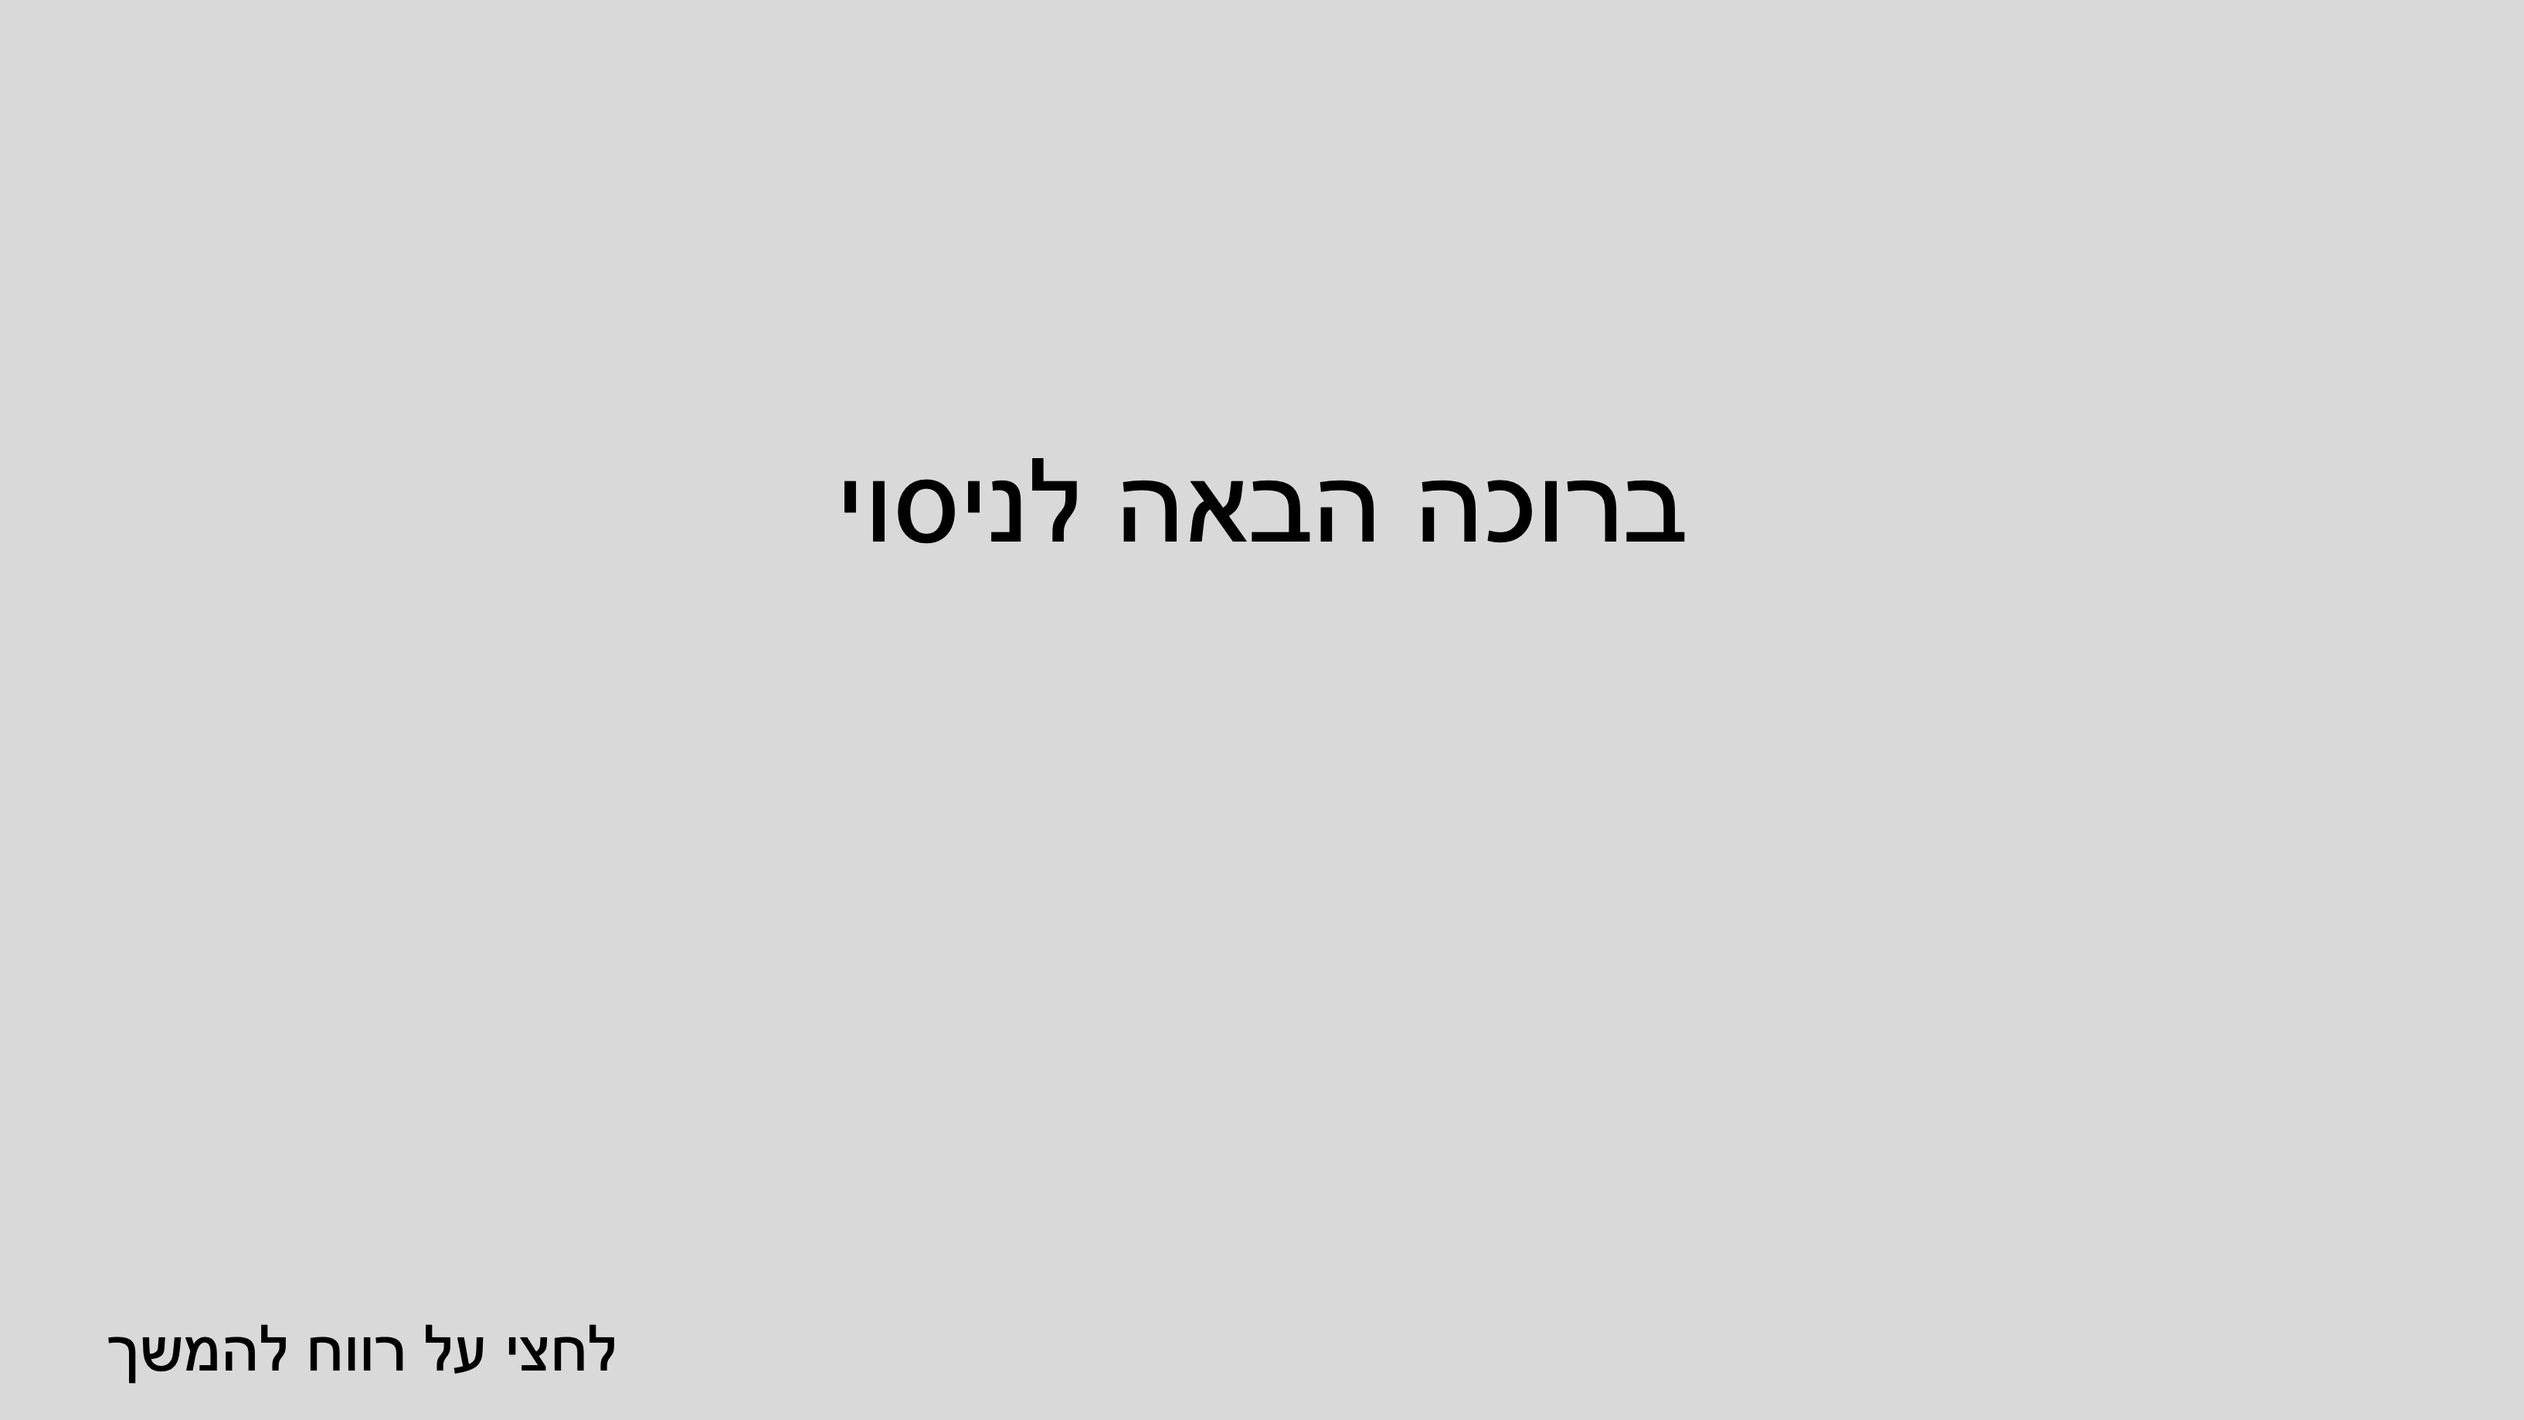
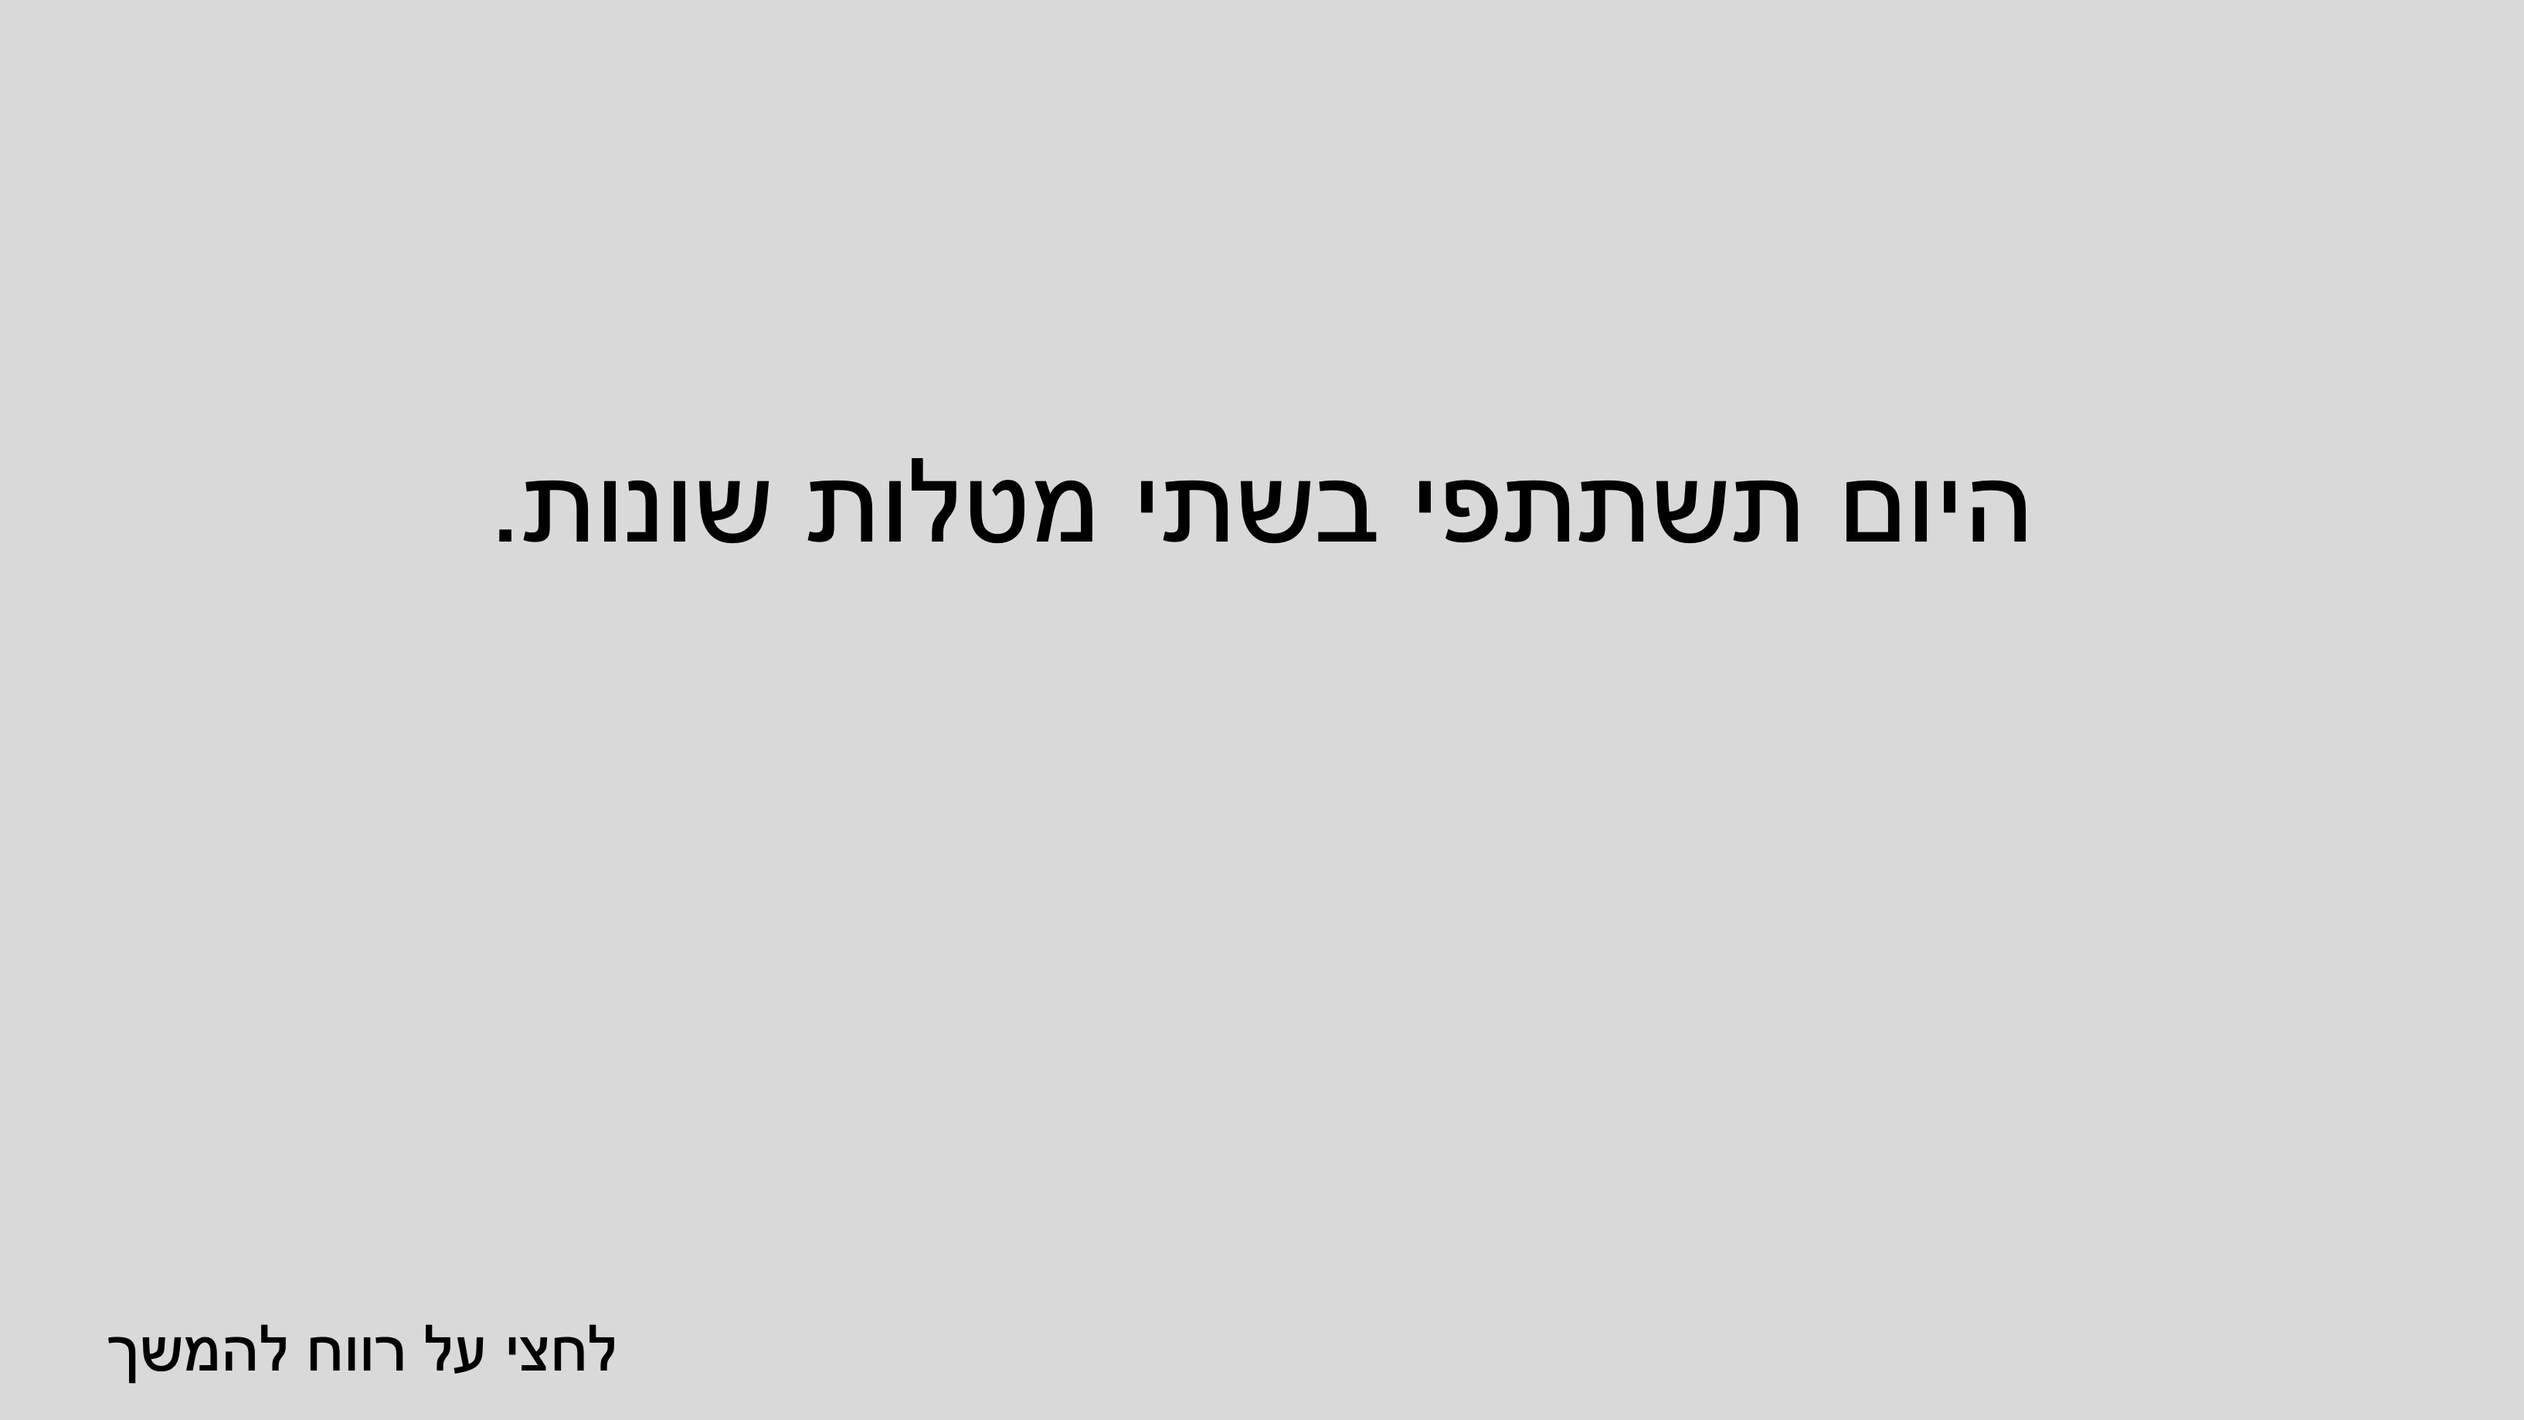
Added instructions and made functions for each of the instruction steps

Changed region(s): [[0.1873, 0.3101, 0.8118, 0.4032]]

diff --git a/Assignments/NPU/pretestVideos.py b/Assignments/NPU/pretestVideos.py
@@ -28,11 +28,15 @@ def run_post_videos(win: visual.Window, params: dict, io, ser=None):
     win.mouseVisible = False
     df = dataHandler.setup_videos_dataframe(params)
     dict_for_df = dataHandler.create_dict_for_videos_df(params)
-
     rest_time = params['videoRestTime']
 
-    plus_stare_message(win, params, keyboard)
+    # Show instruction screen
+    instructions(win, params, keyboard)
 
+    # Prepare subject for fixation
+    fixation_message(win, params, keyboard)
+
+    # Initiate Fixation
     img = visual.ImageStim(win=win, image="./img/plus.jpeg", units='norm', size=(2, 2))
     img.draw()
     win.flip()
@@ -52,28 +56,6 @@ def run_post_videos(win: visual.Window, params: dict, io, ser=None):
     del img
     win.flip()
 
-    textHello = visual.TextStim(win=win,
-                                text='עכשיו אתם עומדים לצפות בקטע וידאו' if params["language"] == "Hebrew"
-                                else "You are now about to watch a video clip", font='Arial',
-                                pos=(0, 0), height=0.12, wrapWidth=1, ori=0.0, units="norm",
-                                color='#000000', languageStyle='RTL' if params["language"] == "Hebrew" else "LTR")
-
-    # draw the text
-    textHello.draw()
-
-    # Show the window and wait 5 sec
-    win.flip()
-    press = False
-    keyboard.getKeys()
-    while not press:
-        for event in keyboard.getKeys(etype=Keyboard.KEY_PRESS):
-            if event.key == ' ':
-                press = True
-            elif event.key == 'escape':
-                win.close()
-                core.quit()
-        core.wait(0.05)
-
     videos = [r"C:/Users/User/Videos/scarlett-johansson-and-adam-driver-in-marriage-story-l-netflix-no-sound2.mp4",
               r"C:/Users/User/Videos/boringmovie.mp4"]
     audios = [r"C:/Users/User/Videos/Scarlett Johansson and Adam Driver in Marriage Story.wav",
@@ -87,31 +69,12 @@ def run_post_videos(win: visual.Window, params: dict, io, ser=None):
     audio_path = audios[index]
     category = movie_category[index]
 
+    # Show message before first video
+    pre_video(win, params, keyboard, 1)
+
     # Create movie and sound objects
     movie_stim = visual.MovieStim3(win, video_path, flipVert=False, flipHoriz=False, name="movie", autoLog=False)
     audio_stim = sound.Sound(audio_path)
-
-    # Show a text message to prompt the user to click
-    click_prompt = visual.TextStim(win, text="לחצו על מקש הרווח להפעלת הוידאו" if params["language"] == "Hebrew"
-                                else "Click the spacebar to start the video", pos=(0, 0),
-                                   height=0.12, wrapWidth=1, ori=0.0,
-                                   units="norm", color="#000000",
-                                   languageStyle='RTL' if params["language"] == "Hebrew" else "LTR")
-
-    press = False
-    keyboard.getKeys()
-    while not press:
-        click_prompt.draw()
-        win.flip()
-        for event in keyboard.getKeys(etype=Keyboard.KEY_PRESS):
-            if event.key == ' ':
-                press = True
-            elif event.key == 'escape':
-                win.close()
-                core.quit()
-        core.wait(0.05)
-
-    df = report_event_and_add_to_df(params, df, dict_for_df, 10, ser)
 
     df = report_event_and_add_to_df(params, df, dict_for_df, 55, ser)
 
@@ -140,9 +103,12 @@ def run_post_videos(win: visual.Window, params: dict, io, ser=None):
 
     df = report_event_and_add_to_df(params, df, dict_for_df, 60, ser)
 
+    # Show pre-vas message and initiate vas
+    vas_message(win, params, keyboard)
     df = VideosVAS.run_vas(win, df, dict_for_df, category, params['language'])
 
-    plus_stare_message(win, params, keyboard)
+    # Show Fixation message and initiate fixation
+    fixation_message(win, params, keyboard)
 
     img = visual.ImageStim(win=win, image="./img/plus.jpeg", units='norm', size=(2, 2))
     img.draw()
@@ -163,24 +129,7 @@ def run_post_videos(win: visual.Window, params: dict, io, ser=None):
     win.flip()
 
     # Show a text message to prompt the user to click
-    click_prompt = visual.TextStim(win, text=SECOND_VIDEO_HEB if params["language"] == "Hebrew"
-                                else SECOND_VIDEO_ENG, pos=(0, 0),
-                                   height=0.12, wrapWidth=1, ori=0.0,
-                                   units="norm", color="#000000",
-                                   languageStyle='RTL' if params["language"] == "Hebrew" else "LTR")
-
-    press = False
-    keyboard.getKeys()
-    while not press:
-        click_prompt.draw()
-        win.flip()
-        for event in keyboard.getKeys(etype=Keyboard.KEY_PRESS):
-            if event.key == ' ':
-                press = True
-            elif event.key == 'escape':
-                win.close()
-                core.quit()
-        core.wait(0.05)
+    pre_video(win, params, keyboard, 2)
 
     # Create a new MovieStim3 object for the second video
     video_path2 = videos[1 - index]
@@ -217,9 +166,11 @@ def run_post_videos(win: visual.Window, params: dict, io, ser=None):
     audio_stim2.stop()
 
     df = report_event_and_add_to_df(params, df, dict_for_df, 75, ser)
+
+    vas_message(win, params, keyboard)
     df = VideosVAS.run_vas(win, df, dict_for_df, category, params['language'])
 
-    plus_stare_message(win, params, keyboard)
+    fixation_message(win, params, keyboard)
 
     img = visual.ImageStim(win=win, image="./img/plus.jpeg", units='norm', size=(2, 2))
     img.draw()
@@ -245,6 +196,14 @@ def run_post_videos(win: visual.Window, params: dict, io, ser=None):
     del img
     win.flip()
 
+    if params['videos_timing'] == 'Start':
+        next_task = visual.ImageStim(win,
+                                     f"./img/instructions/videosInstructions/nextTask{params['gender'][0]}{params['language'][0]}.jpeg",
+                                     units="norm", pos=(0, 0), size=(2,2))
+        next_task.draw()
+        win.flip()
+        wait_for_space(win, keyboard)
+
     dataHandler.export_data(params, VideosData=df)
 
 
@@ -258,42 +217,63 @@ def report_event_and_add_to_df(params: dict, df: pd.DataFrame, dict_for_df: dict
     return df
 
 
-def plus_stare_message(win:visual.Window, params:dict, keyboard):
-    plus_stare = visual.TextStim(win=win, text=STARE_AT_PLUS_1_HEB + "\n" + STARE_AT_PLUS_2_HEB if
-                                params['language'] == 'Hebrew' else STARE_AT_PLUS_ENG,
-                                 font='Arial', pos=(0, 0), height=0.12, wrapWidth=1, ori=0.0, units="norm",
-                                 color='#000000', languageStyle='RTL' if params["language"] == "Hebrew" else "LTR"
-                                 )
-    plus_stare.draw()
+def instructions(win: visual.Window, params: dict, keyboard):
+    if params['videos_timing'] == 'Start':
+        curr_instruction = visual.ImageStim(win,
+                                            f"./img/instructions/1{params['gender'][0]}{params['language'][0]}.jpeg",
+                                            units="norm", pos=(0, 0), size=(2,2))
+    else:
+        curr_instruction = visual.ImageStim(win,
+                                            f"./img/instructions/nextTask{params['gender'][0]}{params['language'][0]}.jpeg",
+                                            units="norm", pos=(0, 0), size=(2,2))
+    curr_instruction.draw()
     win.flip()
-    press = False
-    keyboard.getKeys()
-    while not press:
-        for event in keyboard.getKeys(etype=Keyboard.KEY_PRESS):
-            if event.key == ' ':
-                press = True
-            elif event.key == 'escape':
-                win.close()
-                core.quit()
-        core.wait(0.05)
-    del plus_stare
+    wait_for_space(win, keyboard)
+
+    curr_instruction = visual.ImageStim(win,
+                                        f"./img/instructions/videosInstructions/instruction{params['gender'][0]}{params['language'][0]}.jpeg",
+                                        units="norm", pos=(0, 0), size=(2,2))
+    curr_instruction.draw()
+    win.flip()
+    wait_for_space(win, keyboard)
 
 
-def vas_message(win:visual.Window, params:dict, keyboard):
-    vas_text = visual.TextStim(win=win, text=VAS_STRING_HEB if params['language'] == 'Hebrew' else VAS_STRING_ENG,
-                                 font='Arial', pos=(0, 0), height=0.12, wrapWidth=1, ori=0.0, units="norm",
-                                 color='#000000', languageStyle='RTL' if params["language"] == "Hebrew" else "LTR"
-                                 )
-    vas_text.draw()
+def pre_video(win: visual.Window, params: dict, keyboard, video_num):
+    curr_instruction = visual.ImageStim(win,
+                                        f"./img/instructions/videosInstructions/video{video_num}{params['gender'][0]}{params['language'][0]}.jpeg",
+                                        units="norm", pos=(0, 0), size=(2,2))
+    curr_instruction.draw()
     win.flip()
-    press = False
+    wait_for_space(win, keyboard)
+
+
+def fixation_message(win: visual.Window, params: dict, keyboard):
+    plus_prep_message = visual.ImageStim(win,
+                                         image=f"./img/instructions/videosInstructions/plusPrep{params['gender'][0]}{params['language'][0]}.jpeg",
+                                         units="norm", pos=(0, 0), size=(2,2))
+    plus_prep_message.draw()
+    win.flip()
+    wait_for_space(win, keyboard)
+
+
+def vas_message(win: visual.Window, params: dict, keyboard):
+    message = visual.ImageStim(win,
+                               f"./img/instructions/videosInstructions/vas{params['gender'][0]}{params['language'][0]}.jpeg",
+                               units="norm", pos=(0, 0), size=(2,2))
+    message.draw()
+    win.flip()
     keyboard.getKeys()
-    while not press:
+    wait_for_space(win, keyboard)
+
+
+def wait_for_space(window: visual.Window, keyboard):
+    keyboard.getKeys()
+    core.wait(0.05)
+    while True:
         for event in keyboard.getKeys(etype=Keyboard.KEY_PRESS):
             if event.key == ' ':
-                press = True
+                return
             elif event.key == 'escape':
-                win.close()
+                window.close()
                 core.quit()
         core.wait(0.05)
-    del vas_text

diff --git a/Assignments/NPU/main.py b/Assignments/NPU/main.py
@@ -55,17 +55,18 @@ if params['recordPhysio']:
 window = visual.Window(size=params['screenSize'], monitor="testMonitor", color=(0.6, 0.6, 0.6), winType='pyglet',
                        fullscr=True if params['fullScreen'] else False, units="pix")
 
-videos_timing = random.choice(['Start', 'End'])
-if params['showVideos'] and videos_timing == 'Start':
-    pretestVideos.run_post_videos(window, params, io, ser)
-
-image = visual.ImageStim(win=window, image=f"./img/instructions/1{params['gender'][0]}{params['language'][0]}.jpeg",
+image = visual.ImageStim(win=window, image=f"./img/instructions/Welcome_{params['gender'][0]}{params['language'][0]}.jpeg",
                          units="norm", opacity=1,
                          size=(2, 2))
 image.draw()
 window.mouseVisible = False
 window.update()
 helpers.wait_for_space_no_df(window, io)
+
+
+params['videos_timing'] = 'Start' # random.choice(['Start', 'End'])
+if params['showVideos'] and params['videos_timing'] == 'Start':
+    pretestVideos.run_post_videos(window, params, io, ser)
 
 # Setup DFs
 params, df, mini_df = dataHandler.setup_data_frame(params)
@@ -115,7 +116,7 @@ if params['blocks'] == 2:
 df, mini_df = VAS.vas(window, params, df, mini_df, io, 3)
 
 # Show Post-Task Videos
-if params['showVideos'] and videos_timing == 'End':
+if params['showVideos'] and params['videos_timing'] == 'End':
     pretestVideos.run_post_videos(window, params, io, ser)
 
 # End of task Finalization

diff --git a/Assignments/NPU/instructionsScreen.py b/Assignments/NPU/instructionsScreen.py
@@ -25,7 +25,7 @@ def show_instructions(params: dict, window: visual.Window, img: visual.ImageStim
     replay = True
     plays_again = False
     while replay:
-        for i in range(2, SLIDES):
+        for i in range(2, SLIDES) if params['videos_timing'] == "Start" else range(1, SLIDES):
             if params["skipCalibration"] and i in [3, 4, 5]:
                 pass
             elif params["skipStartle"] and i == STARTLE_SLIDE:
